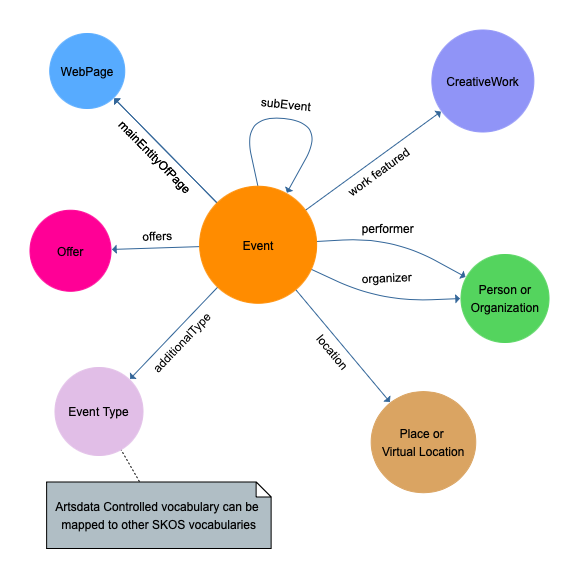
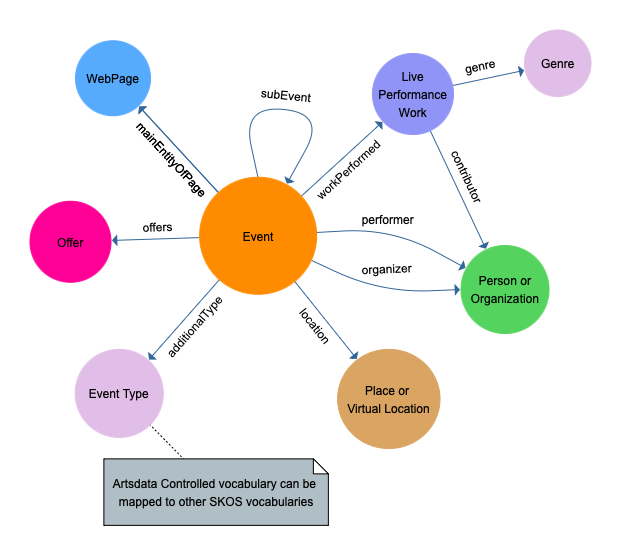
updated data model image

diff --git a/index.fr.md b/index.fr.md
@@ -16,7 +16,7 @@ Voici les Classes utilisées dans Artsdata.
 
 ![Image](images/data-model-image.png)
 
-[[open drawing tool](https://www.yworks.com/yed-live/?file=https://gist.githubusercontent.com/saumier/499adb05caf71d67a85f70796e2ca9b7/raw/9f6b51cc36c6df3c9265e42fd5f241741f67a93e/artsdata_event_model)]
+[[open drawing tool](https://www.yworks.com/yed-live/?file=https://gist.githubusercontent.com/saumier/678866c150bdf24519892d68d640a904/raw/f1249bb614c7a659e683360cbbee2547c9d8f62b/artsdata_event_model)]
 
 ### Classes
 

diff --git a/index.md b/index.md
@@ -15,7 +15,7 @@ Here are the main Classes used in Artsdata.
 
 ![Image](images/data-model-image.png)
 
-[[open drawing tool](https://www.yworks.com/yed-live/?file=https://gist.githubusercontent.com/saumier/9450de6c42ed8ceed27f0e4374d4e986/raw/0f15244c4f04486e237a8138e9132ed1aae96a66/artsdata_event_model)]
+[[open drawing tool](https://www.yworks.com/yed-live/?file=https://gist.githubusercontent.com/saumier/678866c150bdf24519892d68d640a904/raw/f1249bb614c7a659e683360cbbee2547c9d8f62b/artsdata_event_model)]
 
 ### Classes
 
